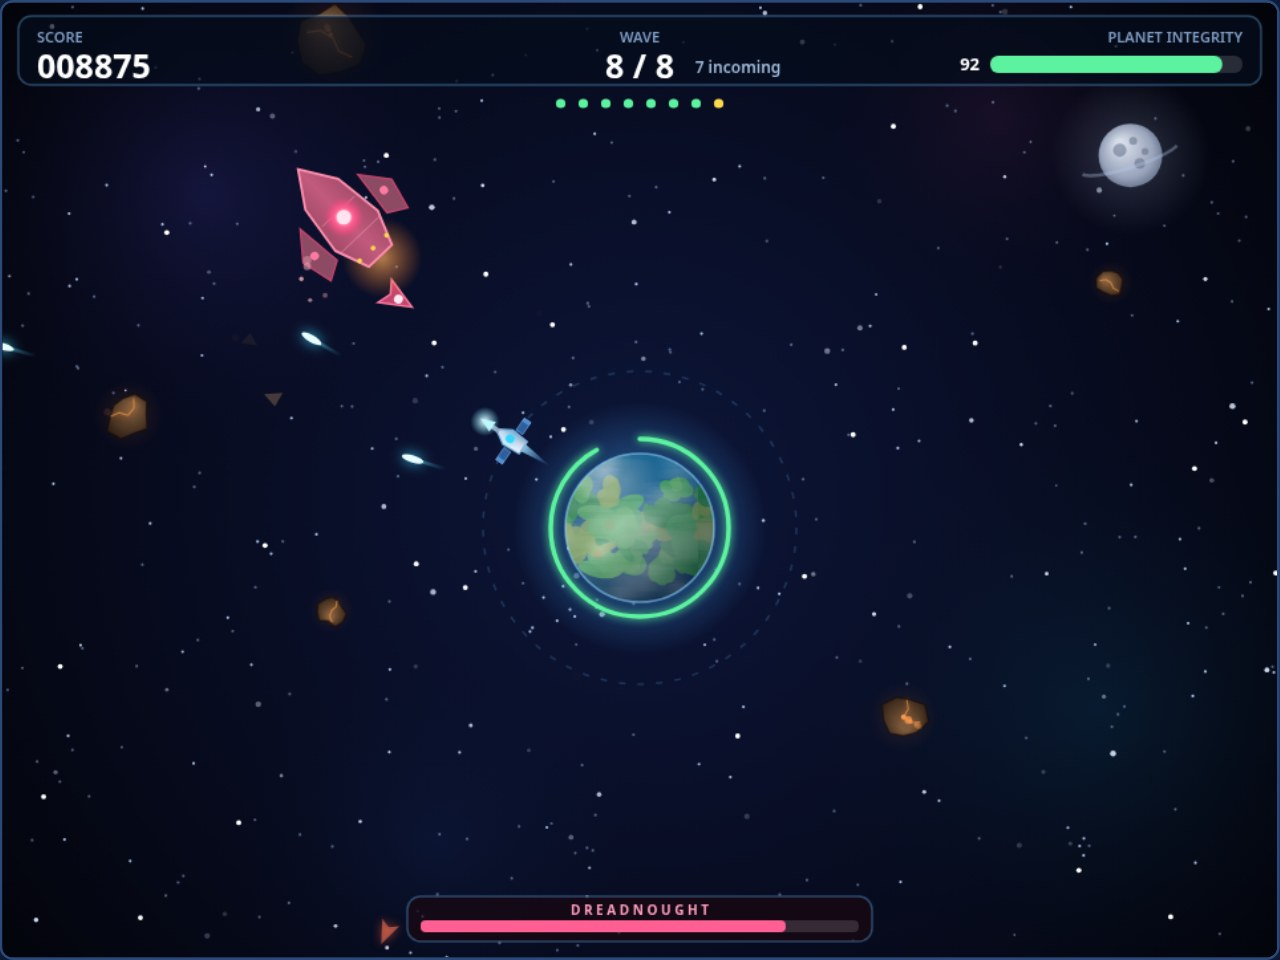
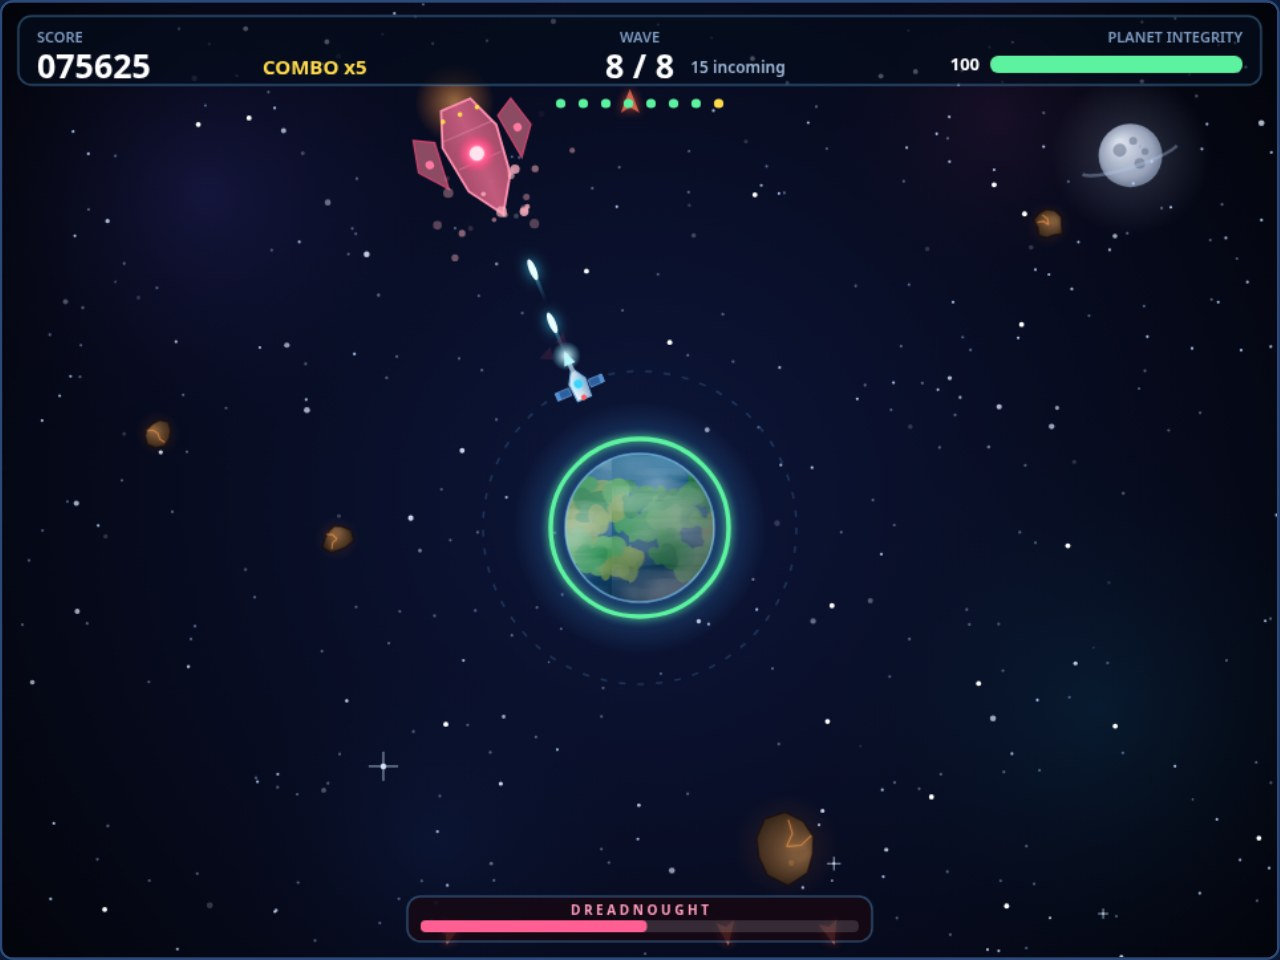
ORBITFALL v2.1 polish: faster wave pacing, denser explosions, busier Dreadnought, retaken screenshots

diff --git a/game/js/game.js b/game/js/game.js
@@ -377,10 +377,10 @@ export class Game {
     const big = e.kind === 'large' || e.type === 'drone';
     const burstColor = e.type === 'drone' || e.type === 'bolt' ? '#ff9dbd' : e.type === 'comet' ? '#aef4ff' : '#ffb37a';
     const debrisColor = e.type === 'meteor' ? '#8a6a52' : e.type === 'comet' ? '#7fc8e8' : '#c2456e';
-    createSparkBurst(this.sparks, e.x, e.y, burstColor, big ? 22 : 12, big ? 260 : 200);
-    createSparkBurst(this.sparks, e.x, e.y, '#fff3c9', 6, 150);
-    this.shockwaves.push(createShockwave(e.x, e.y, burstColor, e.radius * (big ? 3.4 : 2.4)));
-    createDebrisBurst(this.debris, e.x, e.y, debrisColor, big ? 7 : 4, big ? 190 : 140);
+    createSparkBurst(this.sparks, e.x, e.y, burstColor, big ? 30 : 17, big ? 260 : 200);
+    createSparkBurst(this.sparks, e.x, e.y, '#fff3c9', 8, 150);
+    this.shockwaves.push(createShockwave(e.x, e.y, burstColor, e.radius * (big ? 3.8 : 2.7)));
+    createDebrisBurst(this.debris, e.x, e.y, debrisColor, big ? 9 : 5, big ? 190 : 140);
     if (big) this.freeze = Math.max(this.freeze, 0.045);
     this.texts.push(createFloatText(e.x, e.y - e.radius - 6, `+${gained}`, '#ffe9a8'));
     if (this.combo > 0 && this.combo % 10 === 0) {

diff --git a/game/js/waves.js b/game/js/waves.js
@@ -10,12 +10,12 @@ export function wavePlan(wave) {
   const n = wave;
   const bossWave = n >= TOTAL_WAVES;
   return {
-    meteors: bossWave ? 11 : 5 + (n - 1) * 2,
+    meteors: bossWave ? 11 : 6 + (n - 1) * 2,
     larges: n >= 4 ? Math.floor((n - 2) / 2) : 0,
     drones: bossWave ? 2 : n >= 3 ? Math.min(6, n - 2) : 0,
     comets: n >= 2 ? Math.min(5, n - 1) : 0,
     boss: bossWave,
-    spawnInterval: Math.max(0.55, 1.45 - n * 0.11),
+    spawnInterval: Math.max(0.55, 1.28 - n * 0.09),
     speedScale: 1 + (n - 1) * 0.07,
     clearBonus: 150 * n,
   };
@@ -49,7 +49,7 @@ export function createWaveDirector() {
       const built = buildQueue(wave);
       queue = built.list;
       interval = built.plan.spawnInterval;
-      timer = 0.35;
+      timer = 0.12;
       return built.plan;
     },
     // Returns the next spawn kind when its moment comes, else null.

diff --git a/game/js/boss.js b/game/js/boss.js
@@ -29,7 +29,7 @@ export function createDreadnought(cx, cy) {
     strafeDir: Math.random() > 0.5 ? 1 : -1,
     strafeTimer: 5 + Math.random() * 3,
     droneTimer: 2.4,
-    boltTimer: 3.4,
+    boltTimer: 2.6,
     entered: false,
     flash: 0,
     age: 0,
@@ -59,12 +59,12 @@ export function stepDreadnought(boss, dt, cx, cy) {
     boss.dist = BOSS_STATS.orbitRadius + Math.sin(boss.age * 0.45) * 26;
     boss.droneTimer -= dt;
     if (boss.droneTimer <= 0) {
-      boss.droneTimer = 3.1 + Math.random() * 0.8;
+      boss.droneTimer = 2.7 + Math.random() * 0.7;
       events.launchDrone = true;
     }
     boss.boltTimer -= dt;
     if (boss.boltTimer <= 0) {
-      boss.boltTimer = 4.1 + Math.random() * 0.9;
+      boss.boltTimer = 3.5 + Math.random() * 0.8;
       events.fireBolts = true;
     }
   }
